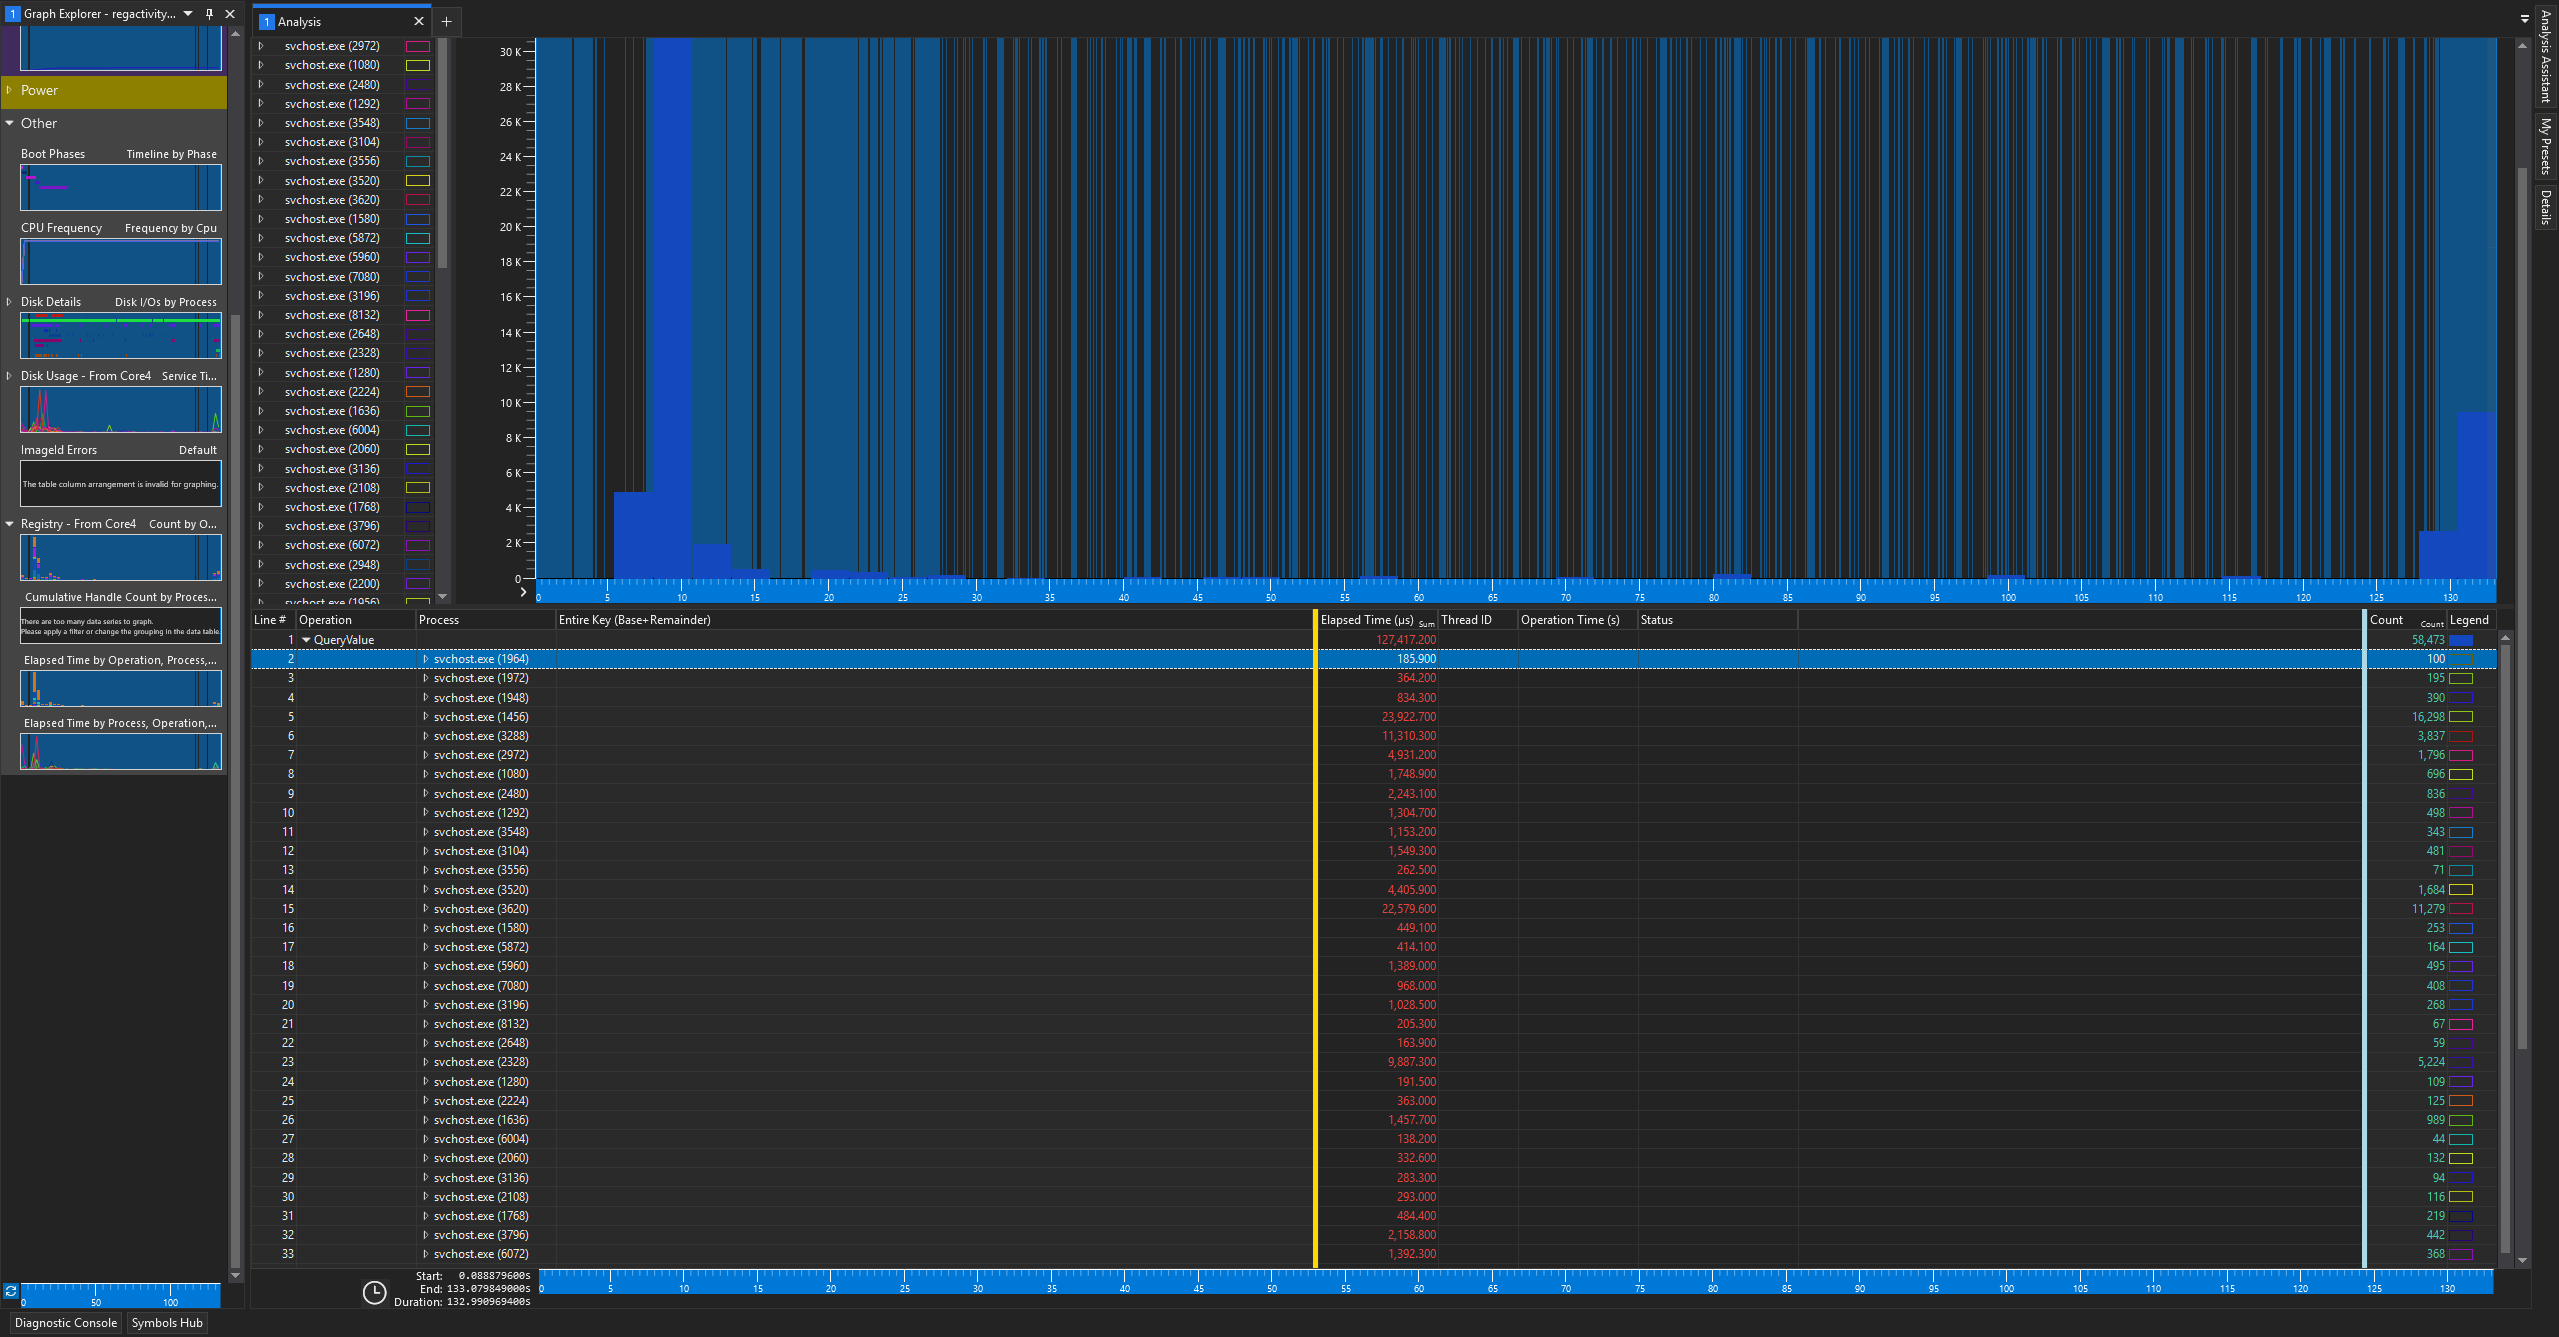
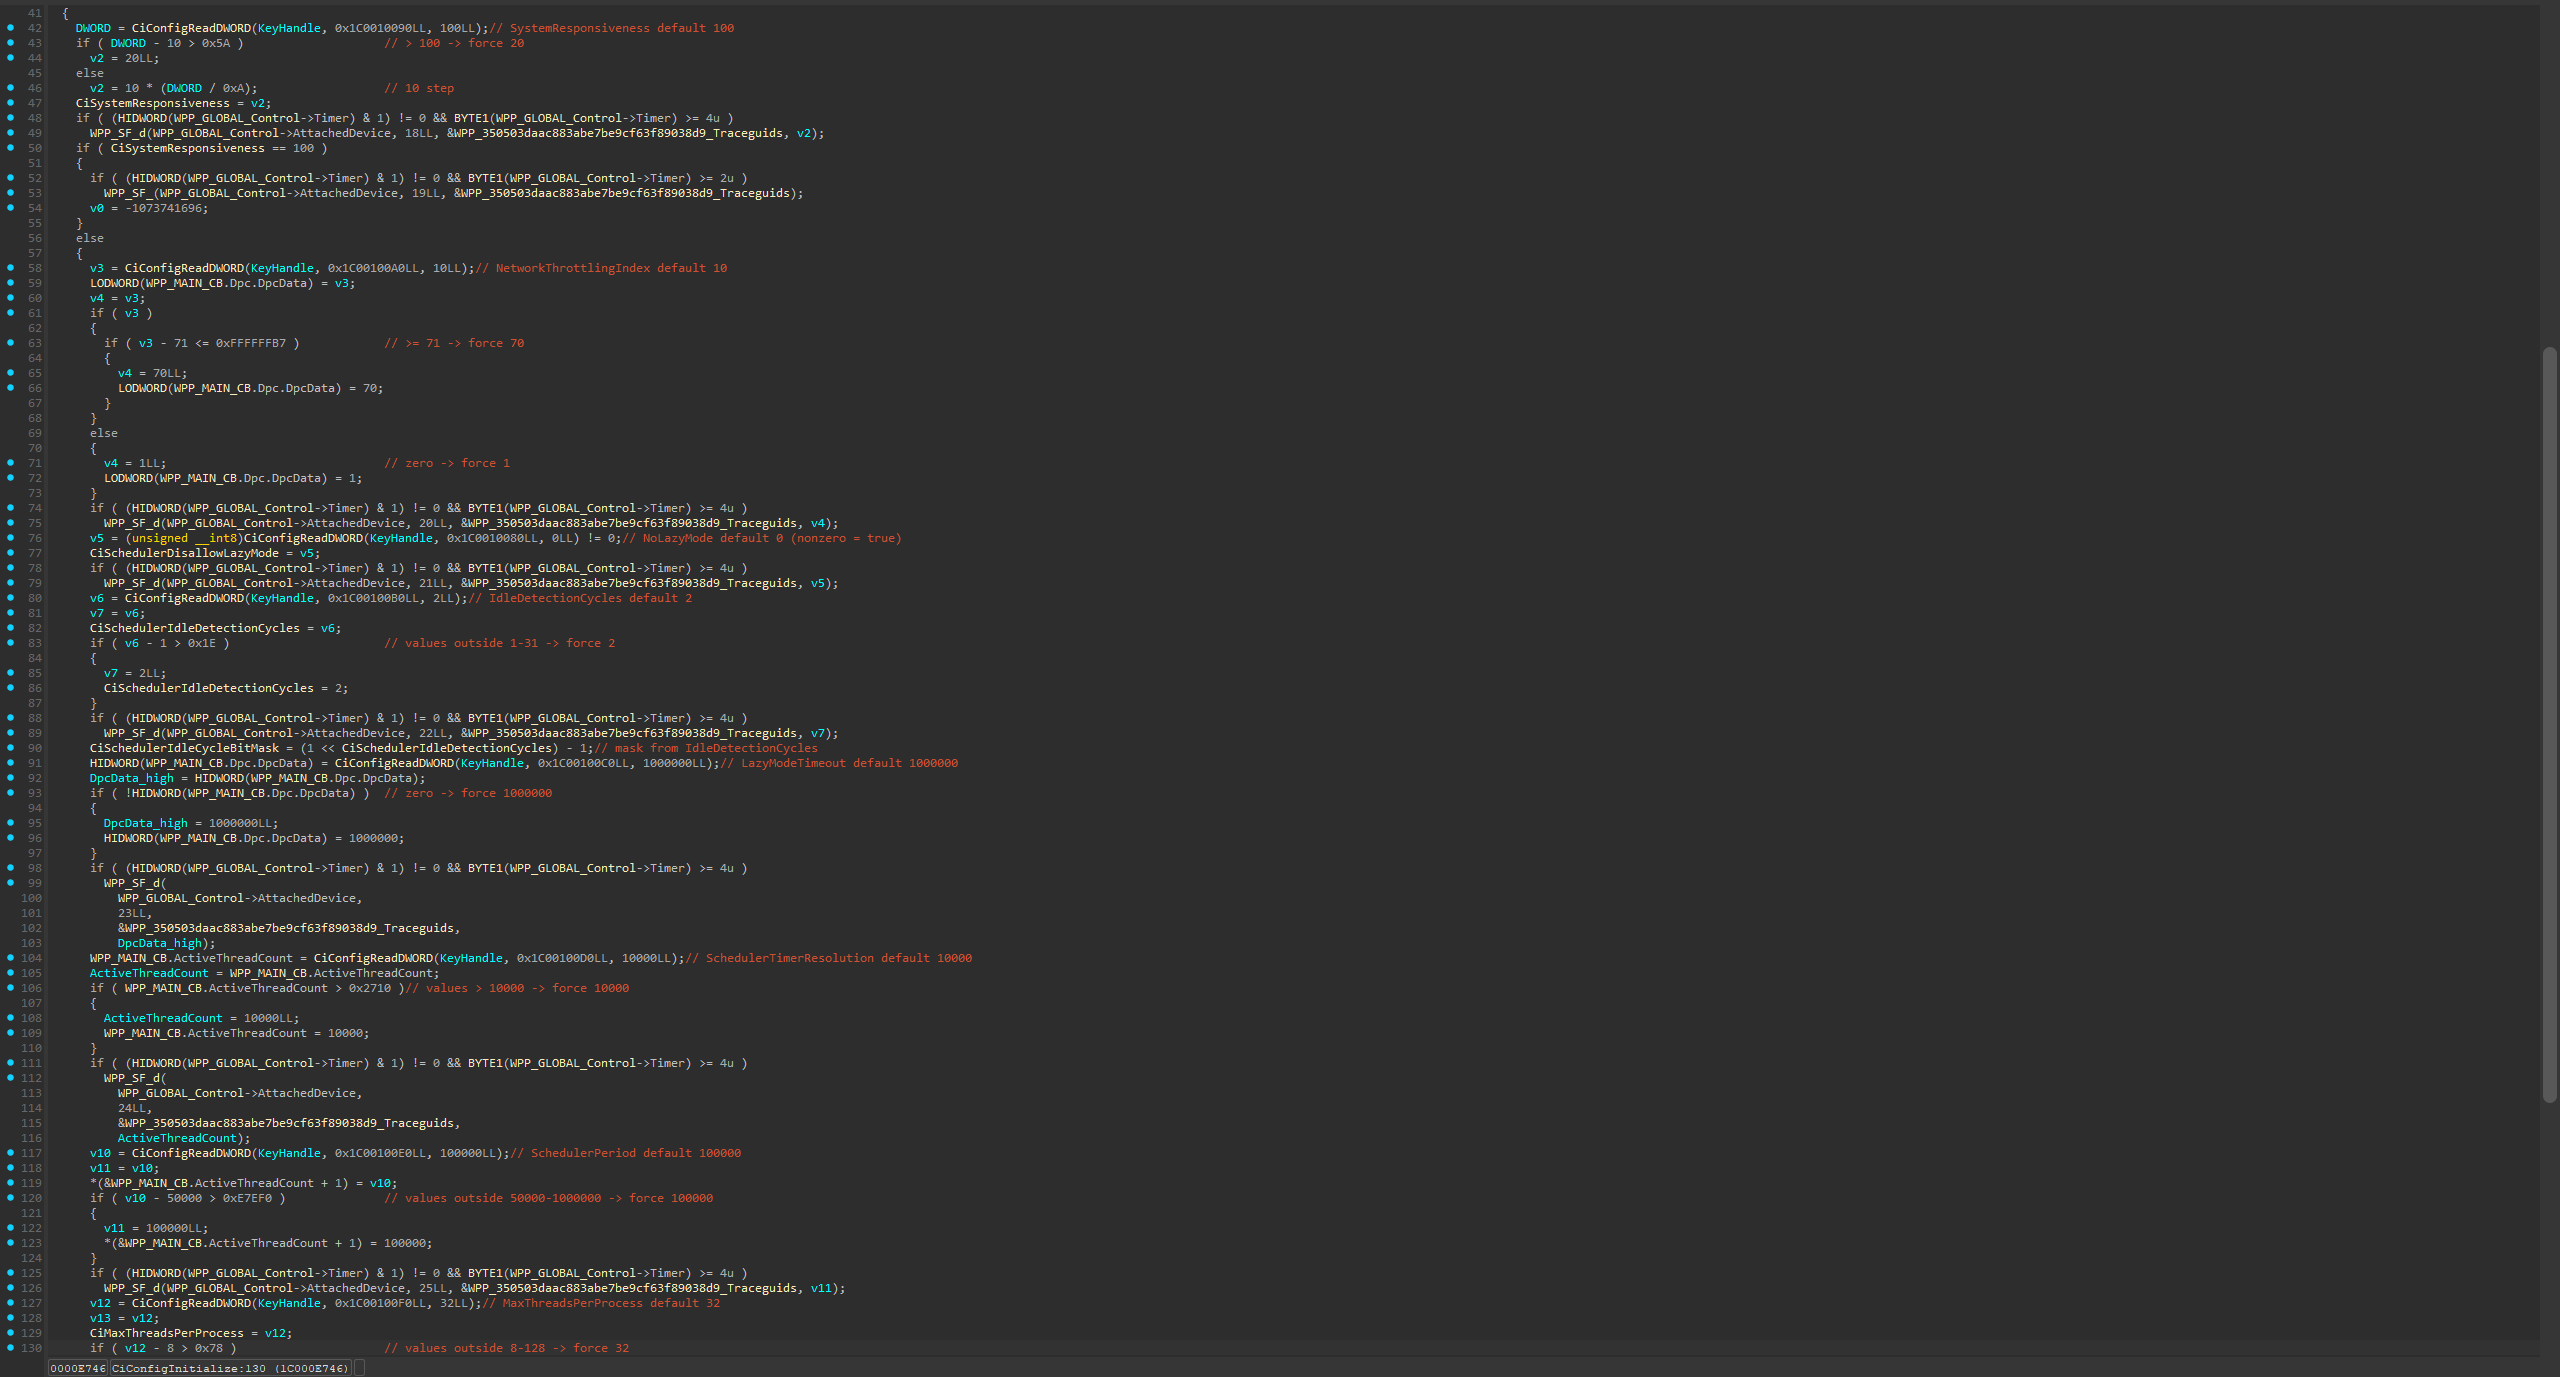
SystemResponsiveness

Changed region(s): [[0.0, 0.0, 1.0, 1.0]]

diff --git a/assets/mmcss/mmcss-CiConfigInitialize.c b/assets/mmcss/mmcss-CiConfigInitialize.c
@@ -25,7 +25,7 @@ __int64 CiConfigInitialize()
   Handle = 0LL;
   ObjectAttributes.RootDirectory = 0LL;
   *(_QWORD *)&ObjectAttributes.Attributes = 64LL;
-  ObjectAttributes.ObjectName = (PUNICODE_STRING)0x1C0011110LL;
+  ObjectAttributes.ObjectName = (PUNICODE_STRING)0x1C0011110LL; // \Registry\Machine\Software\Microsoft\Windows NT\CurrentVersion\Multimedia\SystemProfile
   *(_OWORD *)&ObjectAttributes.SecurityDescriptor = 0LL;
   v0 = ZwOpenKey(&KeyHandle, 0x80000100, &ObjectAttributes);
   if ( v0 < 0 )
@@ -39,8 +39,8 @@ __int64 CiConfigInitialize()
   }
   else
   {
-    DWORD = CiConfigReadDWORD(KeyHandle, 0x1C0011090LL, 100LL); // SystemResponsiveness default 100
-    if ( DWORD - 10 > 0x5A ) // DWORD > 100 -> force 20
+    DWORD = CiConfigReadDWORD(KeyHandle, 0x1C0011090LL, 100LL); // SystemResponsiveness, missing = 100
+    if ( DWORD - 10 > 0x5A ) // data - 10 > 90 = 20
       v2 = 20LL;
     else
       v2 = 10 * (DWORD / 0xA); // 10 step
@@ -51,19 +51,19 @@ __int64 CiConfigInitialize()
     {
       if ( (HIDWORD(WPP_GLOBAL_Control->Timer) & 1) != 0 && BYTE1(WPP_GLOBAL_Control->Timer) >= 2u )
         WPP_SF_(WPP_GLOBAL_Control->AttachedDevice, 19LL, &WPP_350503daac883abe7be9cf63f89038d9_Traceguids);
-      v0 = -1073741696;
+      v0 = -1073741696; // STATUS_SERVER_DISABLED
     }
     else
     {
-      v3 = CiConfigReadDWORD(KeyHandle, 0x1C00110A0LL, 10LL); // NetworkThrottlingIndex default 10
+      v3 = CiConfigReadDWORD(KeyHandle, 0x1C00110A0LL, 10LL); // NetworkThrottlingIndex, missing = 10
       LODWORD(WPP_MAIN_CB.Dpc.DpcData) = v3;
       v4 = v3;
       if ( v3 )
       {
-        if ( v3 - 71 <= 0xFFFFFFB7 ) // unsigned v3 >= 71 -> force 70
+        if ( v3 - 71 <= 0xFFFFFFB7 ) // >=71 = 70
         {
           v4 = 70LL;
-          LODWORD(WPP_MAIN_CB.Dpc.DpcData) = 70;
+          LODWORD(WPP_MAIN_CB.Dpc.DpcData) = 70; // range 1-70
         }
       }
       else
@@ -73,26 +73,26 @@ __int64 CiConfigInitialize()
       }
       if ( (HIDWORD(WPP_GLOBAL_Control->Timer) & 1) != 0 && BYTE1(WPP_GLOBAL_Control->Timer) >= 4u )
         WPP_SF_d(WPP_GLOBAL_Control->AttachedDevice, 20LL, &WPP_350503daac883abe7be9cf63f89038d9_Traceguids, v4);
-      v5 = (unsigned __int8)CiConfigReadDWORD(KeyHandle, 0x1C0011080LL, 0LL) != 0; // NoLazyMode default 0, non-zero = true
+      v5 = (unsigned __int8)CiConfigReadDWORD(KeyHandle, 0x1C0011080LL, 0LL) != 0; // NoLazyMode, missing = 0, nonzero = true
       CiSchedulerDisallowLazyMode = v5;
       if ( (HIDWORD(WPP_GLOBAL_Control->Timer) & 1) != 0 && BYTE1(WPP_GLOBAL_Control->Timer) >= 4u )
         WPP_SF_d(WPP_GLOBAL_Control->AttachedDevice, 21LL, &WPP_350503daac883abe7be9cf63f89038d9_Traceguids, v5);
-      v6 = CiConfigReadDWORD(KeyHandle, 0x1C00110B0LL, 2LL); // IdleDetectionCycles default 2
+      v6 = CiConfigReadDWORD(KeyHandle, 0x1C00110B0LL, 2LL); // IdleDetectionCycles, missing = 2
       v7 = v6;
       CiSchedulerIdleDetectionCycles = v6;
-      if ( v6 - 1 > 0x1E ) // values outside 1..31 -> force 2
+      if ( v6 - 1 > 0x1E ) // data - 1 > 30 = 2
       {
         v7 = 2LL;
         CiSchedulerIdleDetectionCycles = 2;
       }
       if ( (HIDWORD(WPP_GLOBAL_Control->Timer) & 1) != 0 && BYTE1(WPP_GLOBAL_Control->Timer) >= 4u )
         WPP_SF_d(WPP_GLOBAL_Control->AttachedDevice, 22LL, &WPP_350503daac883abe7be9cf63f89038d9_Traceguids, v7);
-      CiSchedulerIdleCycleBitMask = (1 << CiSchedulerIdleDetectionCycles) - 1; // mask from IdleDetectionCycles
-      HIDWORD(WPP_MAIN_CB.Dpc.DpcData) = CiConfigReadDWORD(KeyHandle, 0x1C00110C0LL, 1000000LL); // LazyModeTimeout default 1000000
+      CiSchedulerIdleCycleBitMask = (1 << CiSchedulerIdleDetectionCycles) - 1;
+      HIDWORD(WPP_MAIN_CB.Dpc.DpcData) = CiConfigReadDWORD(KeyHandle, 0x1C00110C0LL, 1000000LL); // LazyModeTimeout, missing = 1000000
       DpcData_high = HIDWORD(WPP_MAIN_CB.Dpc.DpcData);
-      if ( !HIDWORD(WPP_MAIN_CB.Dpc.DpcData) ) // zero -> force 1000000
+      if ( !HIDWORD(WPP_MAIN_CB.Dpc.DpcData) )
       {
-        DpcData_high = 1000000LL;
+        DpcData_high = 1000000LL; // 0 = 1000000
         HIDWORD(WPP_MAIN_CB.Dpc.DpcData) = 1000000;
       }
       if ( (HIDWORD(WPP_GLOBAL_Control->Timer) & 1) != 0 && BYTE1(WPP_GLOBAL_Control->Timer) >= 4u )
@@ -101,9 +101,9 @@ __int64 CiConfigInitialize()
           23LL,
           &WPP_350503daac883abe7be9cf63f89038d9_Traceguids,
           DpcData_high);
-      WPP_MAIN_CB.ActiveThreadCount = CiConfigReadDWORD(KeyHandle, 0x1C00110D0LL, 10000LL); // SchedulerTimerResolution default 10000
+      WPP_MAIN_CB.ActiveThreadCount = CiConfigReadDWORD(KeyHandle, 0x1C00110D0LL, 10000LL); // SchedulerTimerResolution, missing = 10000
       ActiveThreadCount = WPP_MAIN_CB.ActiveThreadCount;
-      if ( WPP_MAIN_CB.ActiveThreadCount > 0x2710 ) // values > 10000 -> force 10000
+      if ( WPP_MAIN_CB.ActiveThreadCount > 0x2710 ) // >10000 = 10000
       {
         ActiveThreadCount = 10000LL;
         WPP_MAIN_CB.ActiveThreadCount = 10000;
@@ -114,30 +114,30 @@ __int64 CiConfigInitialize()
           24LL,
           &WPP_350503daac883abe7be9cf63f89038d9_Traceguids,
           ActiveThreadCount);
-      v10 = CiConfigReadDWORD(KeyHandle, 0x1C00110E0LL, 100000LL); // SchedulerPeriod default 100000
+      v10 = CiConfigReadDWORD(KeyHandle, 0x1C00110E0LL, 100000LL); // SchedulerPeriod, missing = 100000
       v11 = v10;
       *(&WPP_MAIN_CB.ActiveThreadCount + 1) = v10;
-      if ( v10 - 50000 > 0xE7EF0 ) // values outside 50000..1000000 -> force 100000
+      if ( v10 - 50000 > 0xE7EF0 ) // data - 50000 > 950000 = 100000
       {
         v11 = 100000LL;
         *(&WPP_MAIN_CB.ActiveThreadCount + 1) = 100000;
       }
       if ( (HIDWORD(WPP_GLOBAL_Control->Timer) & 1) != 0 && BYTE1(WPP_GLOBAL_Control->Timer) >= 4u )
         WPP_SF_d(WPP_GLOBAL_Control->AttachedDevice, 25LL, &WPP_350503daac883abe7be9cf63f89038d9_Traceguids, v11);
-      v12 = CiConfigReadDWORD(KeyHandle, 0x1C00110F0LL, 32LL); // MaxThreadsPerProcess default 32
+      v12 = CiConfigReadDWORD(KeyHandle, 0x1C00110F0LL, 32LL); // MaxThreadsPerProcess, missing = 32
       v13 = v12;
       CiMaxThreadsPerProcess = v12;
-      if ( v12 - 8 > 0x78 ) // values outside 8..128 -> force 32
+      if ( v12 - 8 > 0x78 ) // data - 8 > 120 = 32
       {
         v13 = 32LL;
         CiMaxThreadsPerProcess = 32;
       }
       if ( (HIDWORD(WPP_GLOBAL_Control->Timer) & 1) != 0 && BYTE1(WPP_GLOBAL_Control->Timer) >= 4u )
         WPP_SF_d(WPP_GLOBAL_Control->AttachedDevice, 26LL, &WPP_350503daac883abe7be9cf63f89038d9_Traceguids, v13);
-      v14 = CiConfigReadDWORD(KeyHandle, 0x1C0011100LL, 256LL); // MaxThreadsTotal default 256
+      v14 = CiConfigReadDWORD(KeyHandle, 0x1C0011100LL, 256LL); // MaxThreadsTotal, missing = 256
       v15 = v14;
       CiMaxThreadsTotal = v14;
-      if ( v14 - 64 > 0xFFBF ) // values outside 64..65535 -> force 256
+      if ( v14 - 64 > 0xFFBF ) // data - 64 > 65471 = 256
       {
         v15 = 256LL;
         CiMaxThreadsTotal = 256;
@@ -146,7 +146,7 @@ __int64 CiConfigInitialize()
         WPP_SF_d(WPP_GLOBAL_Control->AttachedDevice, 27LL, &WPP_350503daac883abe7be9cf63f89038d9_Traceguids, v15);
       ObjectAttributes.RootDirectory = KeyHandle;
       ObjectAttributes.Length = 48;
-      ObjectAttributes.ObjectName = (PUNICODE_STRING)0x1C0011120LL;
+      ObjectAttributes.ObjectName = (PUNICODE_STRING)0x1C0011120LL; // Tasks
       ObjectAttributes.Attributes = 64;
       *(_OWORD *)&ObjectAttributes.SecurityDescriptor = 0LL;
       v0 = ZwOpenKey(&Handle, 0x80000100, &ObjectAttributes);

diff --git a/README.md b/README.md
@@ -1,4 +1,4 @@
-# WPR / [Procmon](https://github.com/nohuto/win-registry/blob/main/guide/procmon.md) Registry Activity Records
+# [WPR](https://github.com/nohuto/win-registry/blob/main/guide/wpr-wpa.md) / [Procmon](https://github.com/nohuto/win-registry/blob/main/guide/procmon.md) Registry Activity Records
 
 Most activities were recorded during boot, there are some others, such as `Steam.txt`, `TLOU2.txt`, `StartAllBack.txt`, and `Lighshot.txt`, that were traced using Procmon during use. You can get the Windowos Performance Toolkit from [ADK](https://go.microsoft.com/fwlink/?linkid=2337875), or install it via `winget`, but this will install more than the Performance Toolkit.
 
@@ -2348,7 +2348,7 @@ See [mmcss-CiConfigInitialize.c](https://github.com/nohuto/win-registry/blob/mai
 
 ```c
 "HKLM\\SOFTWARE\\Microsoft\\Windows NT\\CurrentVersion\\multimedia\\systemprofile";
-    "SystemResponsiveness" = 100; // see documentation below
+    "SystemResponsiveness" = 20; // see win-config section in system\desc
     "NetworkThrottlingIndex" = 10; // 0 becomes 1, 1-70 stay unchanged, 71-4294967294 become 70, 4294967295 stays unchanged
     "NoLazyMode" = 0; // any nonzero value = enabled
     "IdleDetectionCycles" = 2; // valid range is 1-31, otherwise 2 is used

diff --git a/guide/procmon.md b/guide/procmon.md
@@ -10,7 +10,7 @@ Start with configuring the filter (`CTRL` + `L`):
 
 You can disable the other activity monitoring:
 
-![](https://github.com/nohuto/win-registry/blob/main/images/monitoring.png)
+![](https://github.com/nohuto/win-registry/blob/main/guide/images/monitoring.png)
 
 If you want to trace all `Reg...` activity, which would use:
 ```c
@@ -39,7 +39,7 @@ Now you'll see all kind of registry activity, what you want to look for is the p
 
 Save the content using `.csv`, afterwards you can remove specific parts of the file, if you want to.
 
-![](https://github.com/nohuto/win-registry/blob/main/images/pmsave.png)
+![](https://github.com/nohuto/win-registry/blob/main/images/guide/images.png)
 
 `CTRL` + `H` (Regular expression):  
 `"Reg\w*"` - Removes the operations  
